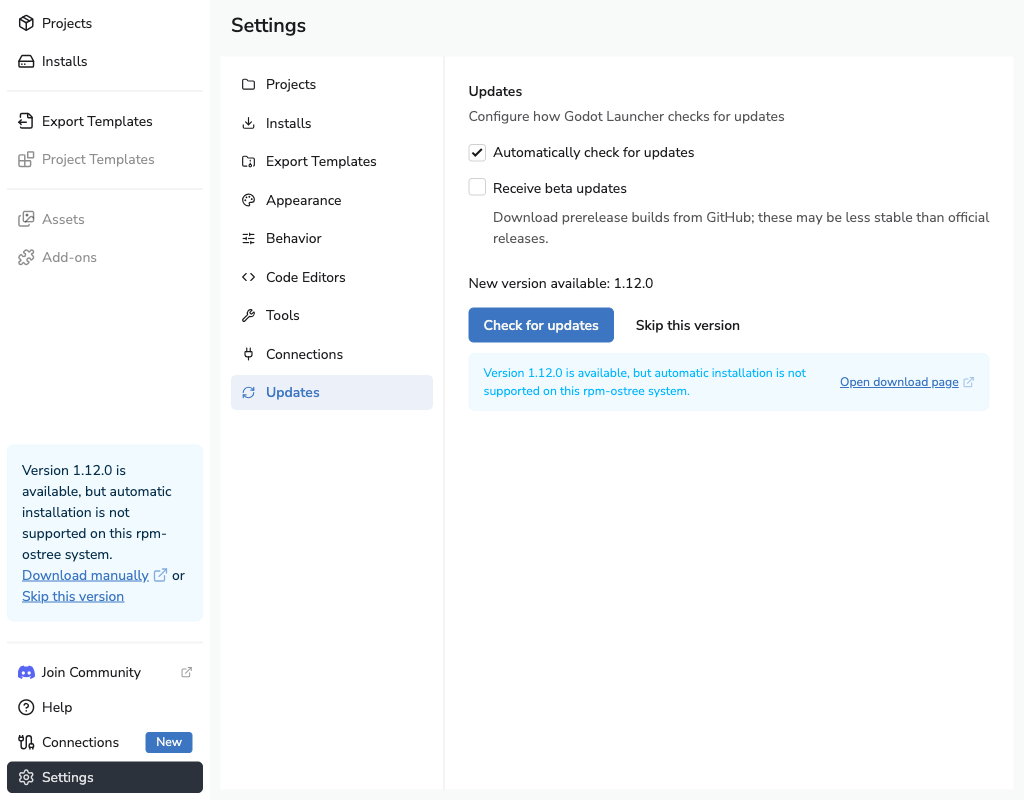
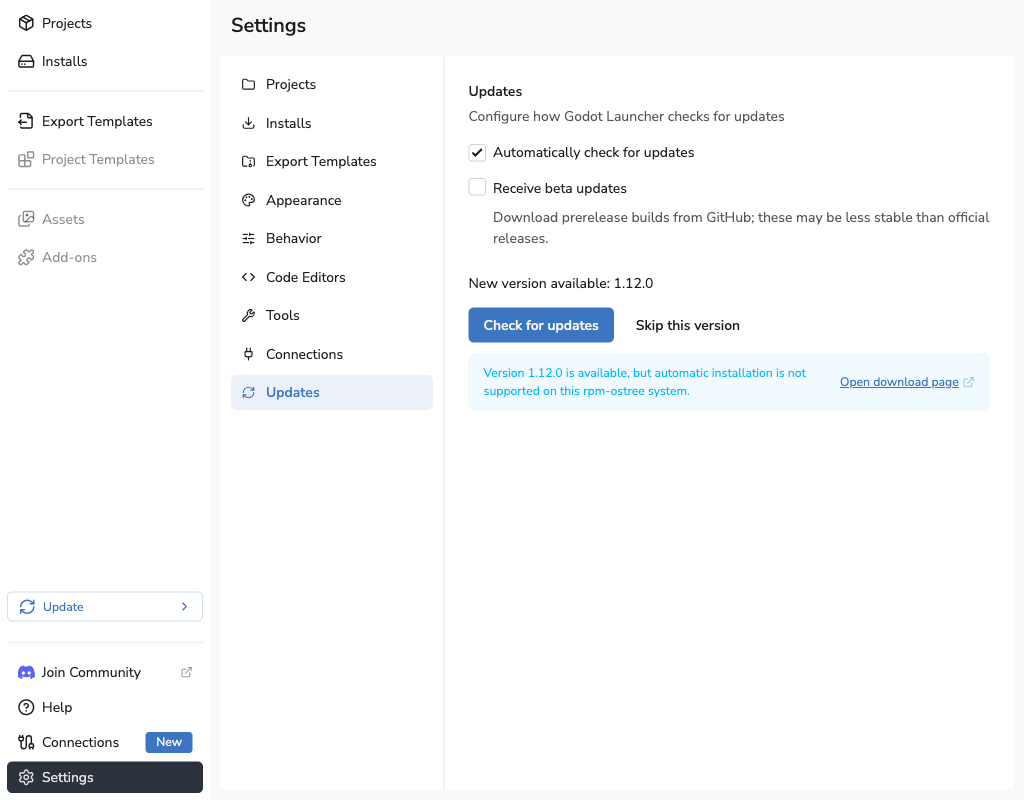
docs(updates): add release notes routes and sidebar guidance

Changed region(s): [[0.0, 0.5625, 0.1562, 0.7812]]

diff --git a/docusaurus.config.ts b/docusaurus.config.ts
@@ -160,7 +160,10 @@ const config: Config = {
           },
         },
         blog: false,
-        pages: false,
+        pages: {
+          path: "src/pages/release-notes",
+          routeBasePath: "release-notes",
+        },
         theme: {
           customCss: "./src/css/custom.css",
         },

diff --git a/docs/reference/update-states.md b/docs/reference/update-states.md
@@ -11,7 +11,9 @@ tags:
 
 # Godot Launcher Update States
 
-Godot Launcher shows update messages in **Settings > Updates** and the sidebar banner. Automatic checks are enabled by default. You choose when to download an update and restart to install it.
+Godot Launcher shows update messages in **Settings > Updates**. When an update is available or needs attention, select **Update** in the sidebar to open its details and actions. During a download, this control shows **Downloading**, with a percentage when progress is known.
+
+Automatic checks are enabled by default. You choose when to download an update and restart to install it. **Read release notes** opens the notes for the update's exact version on the Godot Launcher documentation site in your browser. The link appears when the update includes an exact release version.
 
 ## States
 
@@ -21,10 +23,12 @@ Godot Launcher shows update messages in **Settings > Updates** and the sidebar b
 | Up to date | No newer version was found. | No action needed. |
 | Update available | A newer version is available. | Select **Download update** or **Skip this version**. |
 | Downloading | The update is being downloaded. | Wait for download progress to finish. |
-| Ready to install | The downloaded update is ready. | Select **Restart now** to install it. |
+| Ready to install | The downloaded update is ready. | Select **Restart and install** in the panel or **Restart now** in Settings. Select **Later** in the panel to close it and continue using Godot Launcher. |
 | Skipped | You skipped this version, so background checks do not prompt you about it. | Select **Check for updates** to offer it again, or **Unskip skipped update** to restore background reminders. |
-| Manual update required | The app cannot install the update on this rpm-ostree system. | Select **Open download page** and install the package manually. |
-| Error | The update could not be checked, downloaded, or prepared. | Select **Check for updates** to check again, or **Retry** in the sidebar banner to retry the download. |
+| Manual update required | The app cannot install the update on this rpm-ostree system. | Select **Download manually** in the panel or **Open download page** in Settings and install the package manually. |
+| Error | The update could not be checked, downloaded, or installed. | Open the sidebar panel to read the error. **Retry**, when available, repeats the failed check, download, or installation. If the failed operation is unknown, use **Check for updates** in Settings to start a new check. |
+
+Closing the panel, including selecting **Later**, does not skip the update or cancel a download. A downloaded update remains ready to install.
 
 ## Stable and prerelease channels
 
